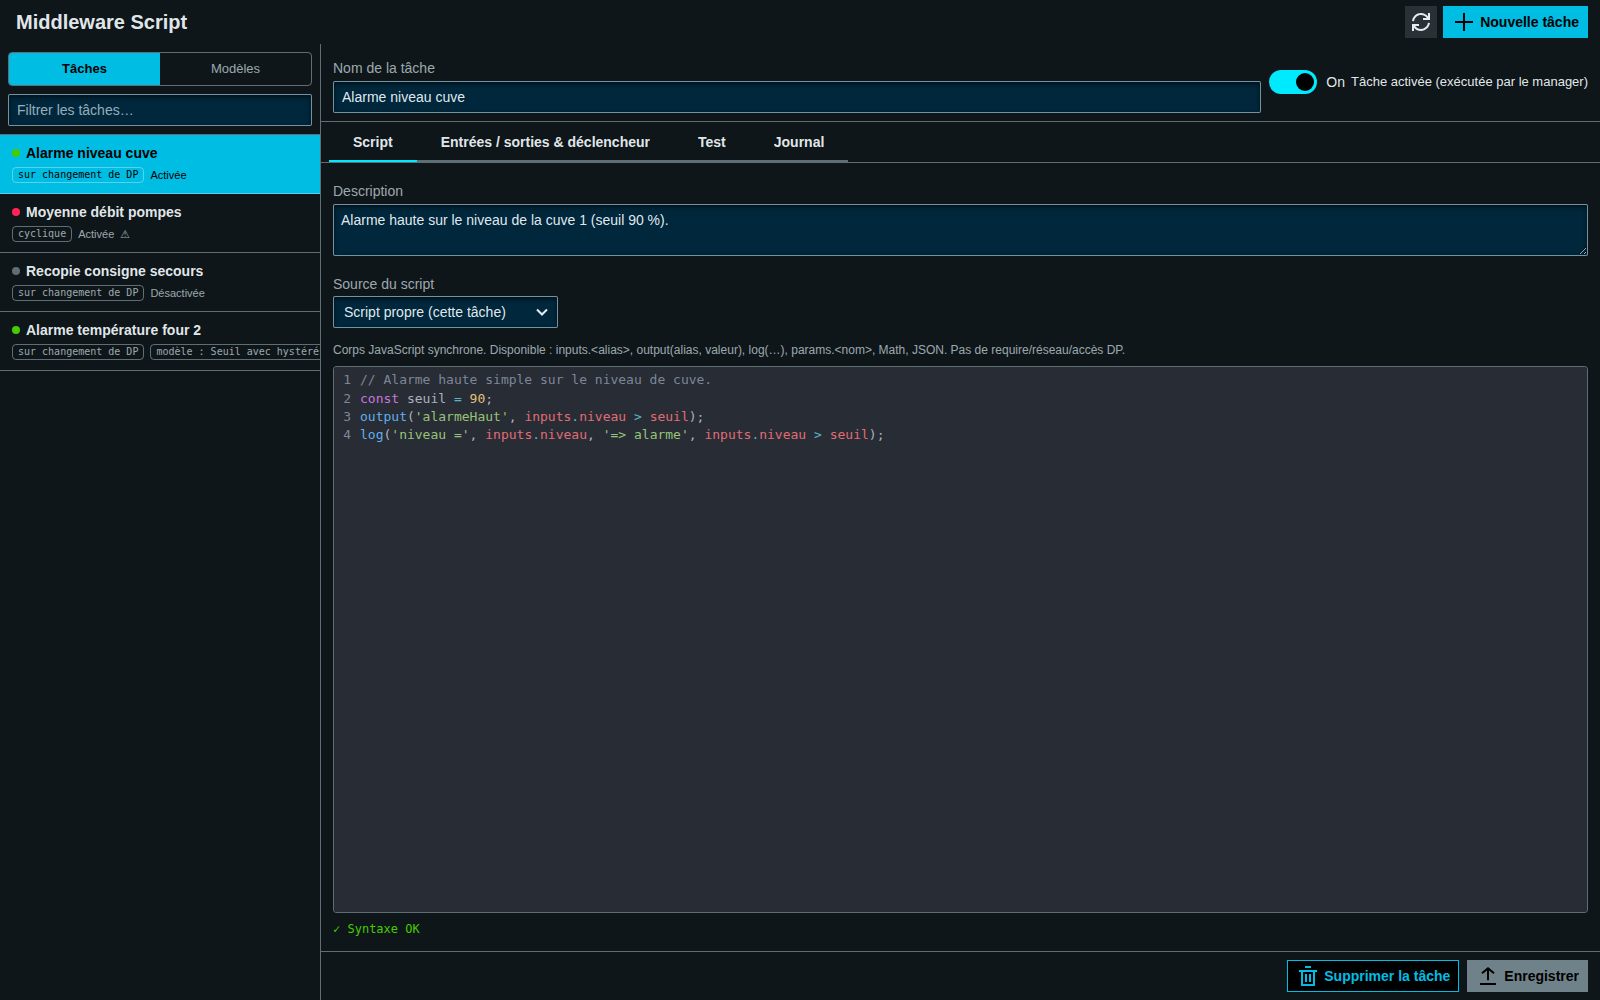
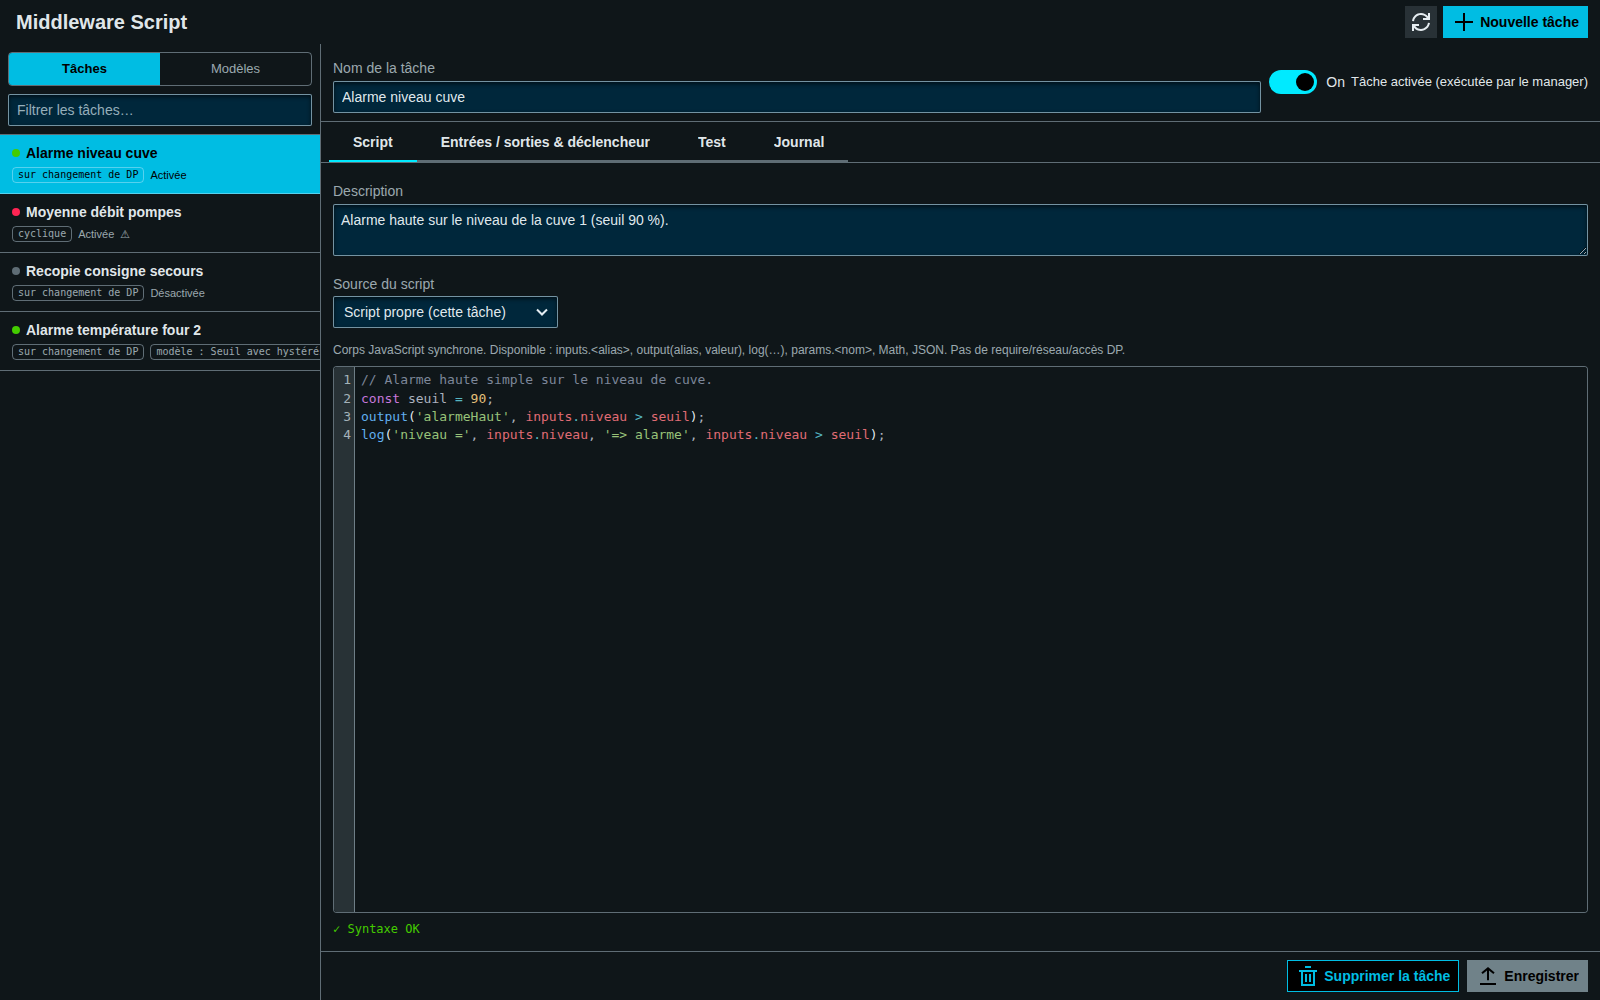
middleware-script: theme-aware editor palette (light mode support)
The script editor no longer hard-codes the one-dark THEME: the chrome
(background, gutter, caret) is built on the --theme-* tokens only and thus
follows the active iX theme by itself, while the syntax TOKEN palette is
swapped through a Compartment — oneDarkHighlightStyle on dark themes,
CodeMirror's defaultHighlightStyle on light ones. The mode is detected from
the iX theme class (theme-*-dark / theme-*-light on html/body, OS
preference fallback, dark default) and re-evaluated live by a
MutationObserver, so switching the dashboard theme restyles open editors
without a reload. Adds @codemirror/language to the peer/preview deps.

Preview: loads both classic-dark and classic-light iX theme CSS and gains
a floating clair/sombre toggle (hidden in screenshot captures). Verified
live: toggling swaps the keyword color (one-dark violet -> CM light
purple) and the whole page chrome follows the light tokens.

Claude-Session: https://claude.ai/code/session_01UhTEvcWSAU96JcxPEvwqzo

diff --git a/libs/wui-middleware-script/src/middleware-script/ms-script-editor.ts b/libs/wui-middleware-script/src/middleware-script/ms-script-editor.ts
@@ -2,10 +2,18 @@
 // SPDX-License-Identifier: AGPL-3.0-only
 
 /**
- * CodeMirror-6 script editor: JavaScript syntax highlighting (one-dark
- * palette over the dashboard theme tokens), line numbers, bracket matching,
- * history, Tab indentation — plus the live parse-only syntax probe
- * (types.ts `scriptSyntaxError`; the script is never executed here).
+ * CodeMirror-6 script editor: JavaScript syntax highlighting, line numbers,
+ * bracket matching, history, Tab indentation — plus the live parse-only
+ * syntax probe (types.ts `scriptSyntaxError`; the script is never executed
+ * here).
+ *
+ * THEME-AWARE: the editor chrome (background, gutter, borders) is built on
+ * the dashboard's `--theme-*` tokens, so it follows the active iX theme by
+ * itself; only the syntax TOKEN palette must be swapped — one-dark in dark
+ * themes, CodeMirror's default (light) style otherwise. The active mode is
+ * detected from the iX theme class (`theme-*-dark` / `theme-*-light` on
+ * html/body) and re-evaluated live through a MutationObserver, so a theme
+ * switch restyles open editors without a reload.
  *
  * Controlled component: the parent owns the text (`script` prop) and receives
  * `wui:scriptchange` on every edit; an external prop change replaces the
@@ -15,8 +23,9 @@
  */
 import { indentWithTab } from '@codemirror/commands';
 import { javascript } from '@codemirror/lang-javascript';
-import { Compartment, EditorState } from '@codemirror/state';
-import { oneDark } from '@codemirror/theme-one-dark';
+import { defaultHighlightStyle, syntaxHighlighting } from '@codemirror/language';
+import { Compartment, EditorState, type Extension } from '@codemirror/state';
+import { oneDarkHighlightStyle } from '@codemirror/theme-one-dark';
 import { EditorView, keymap, lineNumbers } from '@codemirror/view';
 import { minimalSetup } from 'codemirror';
 import { IXCoreStyles } from '@wincc-oa/wui-shared/styles/ix-core.js';
@@ -25,26 +34,42 @@ import { property, query } from 'lit/decorators.js';
 import { MSG, localizeDir } from './i18n.js';
 import { scriptSyntaxError } from './types.js';
 
-/** Editor chrome aligned on the dashboard theme (layered after oneDark). */
-const dashboardTheme = EditorView.theme(
-  {
-    '&': {
-      height: '100%',
-      fontSize: '0.8125rem',
-      backgroundColor: 'var(--theme-color-1)'
-    },
-    '&.cm-focused': { outline: 'none' },
-    '.cm-content': { fontFamily: 'monospace' },
-    '.cm-gutters': {
-      backgroundColor: 'var(--theme-color-2)',
-      color: 'var(--theme-color-soft-text)',
-      border: 'none',
-      borderRight: '1px solid var(--theme-color-soft-bdr)'
-    },
-    '.cm-scroller': { overflow: 'auto' }
+/** Editor chrome on the dashboard theme tokens (valid for light AND dark). */
+const CHROME_SPEC = {
+  '&': {
+    height: '100%',
+    fontSize: '0.8125rem',
+    backgroundColor: 'var(--theme-color-1)',
+    color: 'var(--theme-color-std-text)'
   },
-  { dark: true }
-);
+  '&.cm-focused': { outline: 'none' },
+  '.cm-content': { fontFamily: 'monospace', caretColor: 'var(--theme-color-std-text)' },
+  '.cm-gutters': {
+    backgroundColor: 'var(--theme-color-2)',
+    color: 'var(--theme-color-soft-text)',
+    border: 'none',
+    borderRight: '1px solid var(--theme-color-soft-bdr)'
+  },
+  '.cm-scroller': { overflow: 'auto' }
+} as const;
+
+/** iX marks the active theme with a `theme-<name>-dark|light` class. */
+function isDarkTheme(): boolean {
+  const classes = `${document.documentElement.className} ${document.body?.className ?? ''}`;
+  if (/theme-[\w-]*-light/i.test(classes)) return false;
+  if (/theme-[\w-]*-dark/i.test(classes)) return true;
+  // No iX theme class (bare host page): follow the OS preference, defaulting
+  // to dark like the shipped dashboards.
+  return window.matchMedia?.('(prefers-color-scheme: light)').matches !== true;
+}
+
+/** Chrome + token palette for one mode (swapped through a Compartment). */
+function themeExtensions(dark: boolean): Extension {
+  return [
+    EditorView.theme(CHROME_SPEC, { dark }),
+    syntaxHighlighting(dark ? oneDarkHighlightStyle : defaultHighlightStyle)
+  ];
+}
 
 export class WuiMsScriptEditor extends LitElement {
   static override readonly styles = [
@@ -96,6 +121,9 @@ export class WuiMsScriptEditor extends LitElement {
 
   private view?: EditorView;
   private readonly readonlyCompartment = new Compartment();
+  private readonly themeCompartment = new Compartment();
+  private dark = true;
+  private themeObserver?: MutationObserver;
 
   override render(): TemplateResult {
     const syntax = scriptSyntaxError(this.script);
@@ -110,6 +138,7 @@ export class WuiMsScriptEditor extends LitElement {
 
   override connectedCallback(): void {
     super.connectedCallback();
+    this.watchTheme();
     // Tab switches unmount/remount this element: rebuild the view on reconnect
     // (initial mount goes through firstUpdated — the frame does not exist yet).
     if (this.hasUpdated) {
@@ -119,6 +148,8 @@ export class WuiMsScriptEditor extends LitElement {
 
   override disconnectedCallback(): void {
     super.disconnectedCallback();
+    this.themeObserver?.disconnect();
+    this.themeObserver = undefined;
     this.view?.destroy();
     this.view = undefined;
   }
@@ -140,6 +171,22 @@ export class WuiMsScriptEditor extends LitElement {
     }
   }
 
+  /** Re-evaluate the iX theme class live (theme switch without reload). */
+  private watchTheme(): void {
+    this.dark = isDarkTheme();
+    this.themeObserver = new MutationObserver(() => {
+      const dark = isDarkTheme();
+      if (dark !== this.dark) {
+        this.dark = dark;
+        this.view?.dispatch({ effects: this.themeCompartment.reconfigure(themeExtensions(dark)) });
+      }
+    });
+    this.themeObserver.observe(document.documentElement, { attributes: true, attributeFilter: ['class'] });
+    if (document.body) {
+      this.themeObserver.observe(document.body, { attributes: true, attributeFilter: ['class'] });
+    }
+  }
+
   private createView(): void {
     if (this.frame == null || !this.isConnected) {
       return;
@@ -154,8 +201,7 @@ export class WuiMsScriptEditor extends LitElement {
           lineNumbers(),
           keymap.of([indentWithTab]),
           javascript(),
-          oneDark,
-          dashboardTheme,
+          this.themeCompartment.of(themeExtensions(this.dark)),
           this.readonlyCompartment.of(this.readonlyExtensions()),
           EditorView.updateListener.of((update) => {
             if (update.docChanged) {
@@ -173,7 +219,7 @@ export class WuiMsScriptEditor extends LitElement {
     });
   }
 
-  private readonlyExtensions() {
+  private readonlyExtensions(): Extension {
     return [EditorState.readOnly.of(this.readonly), EditorView.editable.of(!this.readonly)];
   }
 }

diff --git a/libs/wui-middleware-script/preview/index.html b/libs/wui-middleware-script/preview/index.html
@@ -7,6 +7,7 @@
     <title>Middleware Script — preview (sans WinCC OA)</title>
     <link rel="stylesheet" href="/node_modules/@siemens/ix/dist/siemens-ix/siemens-ix.css" />
     <link rel="stylesheet" href="/node_modules/@siemens/ix/dist/siemens-ix/theme/classic-dark.css" />
+    <link rel="stylesheet" href="/node_modules/@siemens/ix/dist/siemens-ix/theme/classic-light.css" />
     <style>
       html,
       body {
@@ -23,6 +24,21 @@
         flex-direction: column;
         height: 100vh;
       }
+      #theme-toggle {
+        position: fixed;
+        right: 0.5rem;
+        bottom: 0.5rem;
+        z-index: 10;
+        padding: 0.25rem 0.5rem;
+        font: inherit;
+        font-size: 0.75rem;
+        color: var(--theme-color-std-text);
+        background: var(--theme-color-2);
+        border: 1px solid var(--theme-color-soft-bdr);
+        border-radius: 4px;
+        cursor: pointer;
+        opacity: 0.7;
+      }
     </style>
     <script type="module">
       import { defineCustomElements as defineIcons } from '/node_modules/@siemens/ix-icons/loader/index.js';
@@ -34,5 +50,15 @@
   </head>
   <body class="theme-classic-dark">
     <wui-middleware-script></wui-middleware-script>
+    <!-- Preview helper: exercise the theme-aware editor palette (the page
+         itself follows the shell's theme class in a real deployment). -->
+    <button id="theme-toggle" type="button">clair / sombre</button>
+    <script>
+      document.getElementById('theme-toggle').addEventListener('click', () => {
+        const dark = document.body.classList.contains('theme-classic-dark');
+        document.body.classList.toggle('theme-classic-dark', !dark);
+        document.body.classList.toggle('theme-classic-light', dark);
+      });
+    </script>
   </body>
 </html>

diff --git a/docs/wui-middleware-script/NOTES.md b/docs/wui-middleware-script/NOTES.md
@@ -68,11 +68,19 @@ worker, so what parses in the UI parses in the sandbox.
 ## Script editor — CodeMirror 6
 
 `ms-script-editor` embeds CodeMirror 6 (deliberate dependency, user-approved):
-`minimalSetup` + line numbers + `indentWithTab` + `@codemirror/lang-javascript`
-+ `oneDark` highlight palette, with the chrome (background/gutter) re-themed on
-the dashboard tokens. Declared as `"*"` peerDependencies of the lib (same
-pattern as `three` in machine-fleet-3d — the workspace/installer provides
-them; the preview pins concrete versions). Contracts:
+`minimalSetup` + line numbers + `indentWithTab` + `@codemirror/lang-javascript`.
+Declared as `"*"` peerDependencies of the lib (same pattern as `three` in
+machine-fleet-3d — the workspace/installer provides them; the preview pins
+concrete versions). Contracts:
+- **THEME-AWARE palette**: the chrome (background/gutter/caret) is built on
+  the `--theme-*` tokens only, so it follows the active iX theme by itself;
+  the syntax TOKEN palette swaps through a Compartment —
+  `oneDarkHighlightStyle` on a dark theme, CodeMirror's
+  `defaultHighlightStyle` (light) otherwise. The mode is read from the iX
+  theme class (`theme-*-dark` / `theme-*-light` on html/body; OS preference
+  as fallback, dark default) and re-evaluated by a MutationObserver, so a
+  live theme switch restyles open editors without reload. Never import the
+  full `oneDark` extension (it hard-codes dark backgrounds).
 - CONTROLLED component: parent owns the text; `wui:scriptchange` on each edit;
   an external `script` prop change replaces the doc only when it differs
   (no update loop).

diff --git a/libs/wui-middleware-script/preview/README.md b/libs/wui-middleware-script/preview/README.md
@@ -25,6 +25,10 @@ The demo scene includes a reusable MODEL («Seuil avec hystérésis», declared
 aliases + parameters) and a task instantiating it («Alarme température four 2»,
 `seuilHaut: 250`) — handy to iterate on the instantiation UX.
 
+A floating **clair / sombre** button (bottom right, preview-only — hidden in
+the screenshot captures) toggles the iX theme class on `<body>`, to exercise
+the editor's theme-aware syntax palette and the page in light mode.
+
 `npm run shots` uses `playwright-core` with the Chromium pointed to by
 `PW_CHROMIUM` (default `/opt/pw-browsers/chromium`, the Claude-Code remote
 container's install; point it to any local Chrome/Chromium otherwise).
